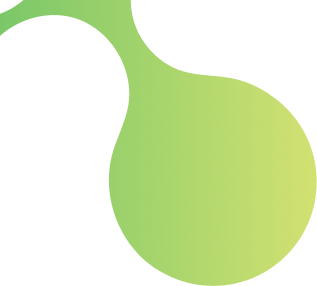
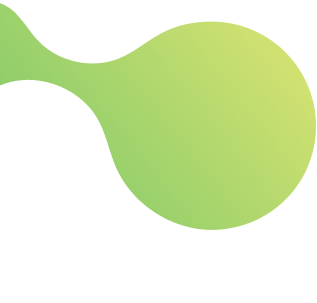
create bio view header section

diff --git a/lib/features/user_authentication/presentation/views/widgets/sections/bio_and_service_type_section/bio_view_header_section.dart b/lib/features/user_authentication/presentation/views/widgets/sections/bio_and_service_type_section/bio_view_header_section.dart
@@ -1,0 +1,34 @@
+import 'package:ay_khedma/core/utils/assets.dart';
+import 'package:ay_khedma/core/utils/colors.dart';
+import 'package:flutter/material.dart';
+import 'package:font_awesome_flutter/font_awesome_flutter.dart';
+import 'package:get/get.dart';
+
+class BioViewHeaderSection extends StatelessWidget {
+  const BioViewHeaderSection({super.key});
+
+  @override
+  Widget build(BuildContext context) {
+    return Stack(
+      alignment: Alignment.topCenter,
+      clipBehavior: Clip.none,
+      children: [
+        Positioned(
+          left: 1,
+          top: 50,  
+          child: Image.asset(AssetsData.bioHeader2, height: Get.height * .35,)),
+        Positioned(
+          left: Get.width * .15 ,
+          top: -22,
+          child: Image.asset(AssetsData.bioHeader1, height: Get.height * .35,)),
+        Row(
+          children: [
+            IconButton(
+              padding:const EdgeInsets.only(right: 20),
+              onPressed: (){}, icon: const Icon(FontAwesomeIcons.arrowRight, color: AppColors.kPrimaryColor,)),
+          ],
+        )  
+      ],
+    ) ;
+  }
+}

diff --git a/lib/features/user_authentication/presentation/views/widgets/components/bio_and_service_type_components/bio_and_service_type_view_body.dart b/lib/features/user_authentication/presentation/views/widgets/components/bio_and_service_type_components/bio_and_service_type_view_body.dart
@@ -1,5 +1,5 @@
-import 'package:ay_khedma/core/utils/assets.dart';
 import 'package:flutter/material.dart';
+import '../../sections/bio_and_service_type_section/bio_view_header_section.dart';
 
 class BioAndServiceTypeViewBody extends StatelessWidget {
   const BioAndServiceTypeViewBody({super.key});
@@ -16,17 +16,3 @@ class BioAndServiceTypeViewBody extends StatelessWidget {
   }
 }
 
-class BioViewHeaderSection extends StatelessWidget {
-  const BioViewHeaderSection({super.key});
-
-  @override
-  Widget build(BuildContext context) {
-    return Stack(
-      alignment: Alignment.topCenter,
-      children: [
-        Image.asset(AssetsData.bioHeader2),
-        Image.asset(AssetsData.bioHeader1)
-      ],
-    ) ;
-  }
-}
